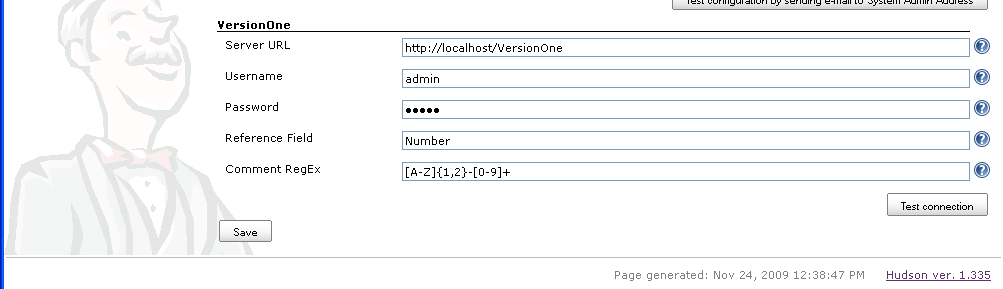
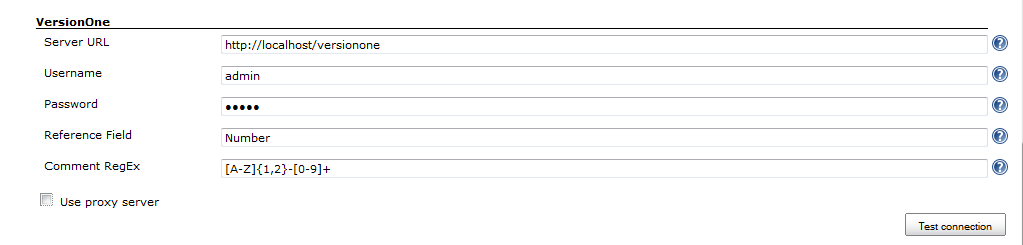
S-18083 Hudson Doc updates
git-svn-id: https://svn.corp.versionone.net/svn/1/Trunk/V1Integration/Java/Hudson@41367 542498e7-56f8-f544-a0f2-a85913ac812a

Changed region(s): [[0.0, 0.0, 1.0, 1.0], [0.6491, 0.0, 0.989, 0.0571]]

diff --git a/Doc/Hudson.html b/Doc/Hudson.html
@@ -1,7 +1,7 @@
 <!DOCTYPE HTML PUBLIC "-//W3C//DTD HTML 4.01 Transitional//EN" "http://www.w3.org/TR/html4/loose.dtd">
 <html>
     <head>
-        <title>Hudson</title>
+        <title>Hudson Plugin</title>
 	    <link rel="stylesheet" href="styles/site.css" type="text/css" />
         <META http-equiv="Content-Type" content="text/html; charset=UTF-8">	    
     </head>
@@ -13,36 +13,30 @@
 			    <td valign="top" class="pagebody">
 				    <div class="pageheader">
 					    <span class="pagetitle">
-                            Hudson
+                            Hudson Plugin
                                                     </span>
 				    </div>
 				    <div class="pagesubheading">
-					    This page last changed on Oct 08, 2010 by <font color="#0050B2">jerry</font>.
+					    This page last changed on May 26, 2011 by <font color="#0050B2">jerry</font>.
                                     </div>
 
 				    <div>
 <ul>
-    <li><a href='#Hudson-Description'>Description</a></li>
-    <li><a href='#Hudson-SystemRequirements'>System Requirements</a></li>
-    <li><a href='#Hudson-Downloads'>Downloads</a></li>
-    <li><a href='#Hudson-Installation'>Installation</a></li>
+    <li><a href='#HudsonPlugin-Description'>Description</a></li>
+    <li><a href='#HudsonPlugin-SystemRequirements'>System Requirements</a></li>
+    <li><a href='#HudsonPlugin-Downloads'>Downloads</a></li>
+    <li><a href='#HudsonPlugin-Installation'>Installation</a></li>
+    <li><a href='#HudsonPlugin-Configuration'>Configuration</a></li>
 <ul>
-    <li><a href='#Hudson-EnsureConnectivity'>Ensure Connectivity</a></li>
-    <li><a href='#Hudson-ExtractFiles'>Extract Files</a></li>
-    <li><a href='#Hudson-Configure'>Configure</a></li>
-    <li><a href='#Hudson-Verifytheinstallation'>Verify the installation</a></li>
+    <li><a href='#HudsonPlugin-ConfigureVersionOne'>Configure VersionOne </a></li>
+    <li><a href='#HudsonPlugin-ConfigureHudson'>Configure Hudson </a></li>
 </ul>
-    <li><a href='#Hudson-Configuration'>Configuration</a></li>
+    <li><a href='#HudsonPlugin-TechnicalDetails'>Technical Details</a></li>
 <ul>
-    <li><a href='#Hudson-ConfigureVersionOne'>Configure VersionOne </a></li>
-    <li><a href='#Hudson-ConfigureHudson'>Configure Hudson </a></li>
-</ul>
-    <li><a href='#Hudson-TechnicalDetails'>Technical Details</a></li>
-<ul>
-    <li><a href='#Hudson-AddingSupportforanothersourcecodemanagementsystem'>Adding Support for another source code management system</a></li>
+    <li><a href='#HudsonPlugin-AddingSupportforanothersourcecodemanagementsystem'>Adding Support for another source code management system</a></li>
 </ul>
 </ul></div>
-<h1><a name="Hudson-Description"></a>Description</h1>
+<h1><a name="HudsonPlugin-Description"></a>Description</h1>
 
 <p>The VersionOne Hudson integration creates a record of Hudson builds in VersionOne, so the development teams can associate stories and defects to a particular build. This visibility is useful when identifying problem builds or generating release notes.</p>
 
@@ -99,9 +93,13 @@
 <p>The following sequence diagram illustrates the VersionOne Hudson publisher behavior.<br/>
 <span class="image-wrap" style=""><a class="confluence-thumbnail-link 736x534" href='http://confluence/download/attachments/5111829/Hudson.png'><img src="attachments/thumbnails/5111829/8257547" border="0"/></a></span></p>
 
-<h1><a name="Hudson-SystemRequirements"></a>System Requirements</h1>
+<h1><a name="HudsonPlugin-SystemRequirements"></a>System Requirements</h1>
 
-<p>VersionOne: 8.1 or above</p>
+<p>VersionOne: </p>
+<ul>
+	<li>8.1 or above, including Team Edition</li>
+</ul>
+
 
 <p>Integration Server:</p>
 <ul>
@@ -122,26 +120,26 @@
 </ul>
 
 
-<h1><a name="Hudson-Downloads"></a>Downloads</h1>
+<h1><a name="HudsonPlugin-Downloads"></a>Downloads</h1>
 
 <p>The latest version of V1Publisher is available at <a href="http://community.versionone.com/sdk/Documentation/Integrations.aspx">V1: Integration Downloads</a></p>
 
-<h1><a name="Hudson-Installation"></a>Installation</h1>
+<h1><a name="HudsonPlugin-Installation"></a>Installation</h1>
 
 <p>These instructions presume that <a href="http://hudson-ci.org/">Hudson</a> is already installed, configured, and working properly.</p>
 <ol>
-	<li><h2><a name="Hudson-EnsureConnectivity"></a>Ensure Connectivity</h2>
-<p>Verify that you can connect to your VersionOne instance from the machine hosting Hudson</p></li>
-	<li><h2><a name="Hudson-ExtractFiles"></a>Extract Files</h2>
-<p>Download VersionOne plugin from the link above and extract it into a folder of your choice. This can be a temporary location since we will copy some of these files during Hudson configuration.</p></li>
-	<li><h2><a name="Hudson-Configure"></a>Configure</h2>
+	<li>Ensure Connectivity<br/>
+Verify that you can connect to your VersionOne instance from the machine hosting Hudson</li>
+	<li>Extract Files<br/>
+Download VersionOne plugin from the link above and extract it into a folder of your choice. This can be a temporary location since we will copy some of these files during Hudson configuration.</li>
+	<li>Configure
 	<ol>
-		<li><a href="#Hudson-ConfigureV1">Configure VersionOne</a></li>
-		<li><a href="#Hudson-ConfigureHudson">Configure Hudson</a></li>
+		<li><a href="#HudsonPlugin-ConfigureV1">Configure VersionOne</a></li>
+		<li><a href="#HudsonPlugin-ConfigureHudson">Configure Hudson</a></li>
 	</ol>
 	</li>
-	<li><h2><a name="Hudson-Verifytheinstallation"></a>Verify the installation</h2>
-<p>Once configuration is complete use the following steps to verify that the build integration is working</p>
+	<li>Verify the installation<br/>
+Once configuration is complete use the following steps to verify that the build integration is working
 	<ol>
 		<li>Navigate to your Hudson instance</li>
 		<li>Force a build on the project you configured</li>
@@ -156,17 +154,17 @@
 </ol>
 
 
-<h1><a name="Hudson-Configuration"></a>Configuration</h1>
+<h1><a name="HudsonPlugin-Configuration"></a>Configuration</h1>
 
-<h2><a name="Hudson-ConfigureVersionOne"></a>Configure VersionOne<a name="Hudson-ConfigureV1"></a> </h2>
-
+<h2><a name="HudsonPlugin-ConfigureVersionOne"></a>Configure VersionOne<a name="HudsonPlugin-ConfigureV1"></a> </h2>
+<div class='panelMacro'><table class='infoMacro'><colgroup><col width='24'><col></colgroup><tr><td valign='top'><img src="images/icons/emoticons/information.gif" width="16" height="16" align="absmiddle" alt="" border="0"></td><td>If you are using Team Edition, you need to manually create the Build Project.  Instructions for doing this are available on the <a href="http://community.versionone.com/KnowledgeBase/FAQs/Q11417.aspx">VersionOne Community Site</a>.</td></tr></table></div>
 <ol>
 	<li>Log into the VersionOne application as admin</li>
 	<li>Navigate to the Admin &#124; Configuration &#124; System page.</li>
 	<li>Check the “Enable Build Integration” checkbox and click the Apply button.<br/>
-<span class="image-wrap" style=""><img src="attachments/5111829/5308424.jpg" border="0"/></span></li>
+<span class="image-wrap" style=""><a class="confluence-thumbnail-link 1047x677" href='http://confluence/download/attachments/5111829/EnableBuildIntegration.jpg'><img src="attachments/thumbnails/5111829/5308424" border="0"/></a></span></li>
 	<li>Navigate to the Admin &#124; Projects &#124; Build Project page<br/>
-<span class="image-wrap" style=""><img src="attachments/5111829/5308423.jpg" border="0"/></span></li>
+<span class="image-wrap" style=""><a class="confluence-thumbnail-link 1680x674" href='http://confluence/download/attachments/5111829/BuildProjects.jpg'><img src="attachments/thumbnails/5111829/5308423" border="0"/></a></span></li>
 	<li>Click Add to add a new Build Project</li>
 	<li>Specify the following
 	<ul>
@@ -178,13 +176,13 @@
 	<li>Navigate to the Admin &#124; Projects &#124; Projects page</li>
 	<li>Click Edit on the row for the project you want associated with a Build Project</li>
 	<li>Using the “Build Projects” dropdown add the appropriate Build Project.<br/>
-<span class="image-wrap" style=""><img src="attachments/5111829/5308422.jpg" border="0"/></span></li>
+<span class="image-wrap" style=""><a class="confluence-thumbnail-link 904x692" href='http://confluence/download/attachments/5111829/AssignBuildProjectToProject.jpg'><img src="attachments/thumbnails/5111829/5308422" border="0"/></a></span></li>
 	<li>Click Ok to accept the changes</li>
 	<li>Logout</li>
 </ol>
 
 
-<h2><a name="Hudson-ConfigureHudson"></a>Configure Hudson<a name="Hudson-ConfigureHudson"></a></h2>
+<h2><a name="HudsonPlugin-ConfigureHudson"></a>Configure Hudson<a name="HudsonPlugin-ConfigureHudson"></a></h2>
 
 <p>These instructions presume that you are logged into Hudson as an administrator.</p>
 <ol>
@@ -192,29 +190,31 @@
 	<li>Click "Manage Plugins"</li>
 	<li>Click Advanced</li>
 	<li>Under "Upload Plugin" browse to your download location and select the file versionone.hpi<br/>
-<span class="image-wrap" style=""><img src="attachments/5111829/5308420.png" border="0"/></span></li>
+<span class="image-wrap" style=""><a class="confluence-thumbnail-link 1012x594" href='http://confluence/download/attachments/5111829/HudsonPluginManager.png'><img src="attachments/thumbnails/5111829/5308420" border="0"/></a></span></li>
 	<li>Click Upload</li>
 	<li>Restart your Hudson instance in order to load the new plugin</li>
 	<li>On the Hudson Dashboard, Click "Manage Hudson"</li>
 	<li>Click Configure System<br/>
 There is a new VersionOne section at the end of this page</li>
 	<li>Provide your VersionOne connection parameters<br/>
-<span class="image-wrap" style=""><img src="attachments/5111829/5308419.png" border="0"/></span><br/>
-It is recommended that you do not change the "Reference Field" or "Comment RegEx" fields.  The "Reference Field" is the system name of the attribute to search when matching the ID in change comments with workitems in VersionOne.  The "Comment RegEx" is used to extract workitem identifiers from the change comments.</li>
+<span class="image-wrap" style=""><a class="confluence-thumbnail-link 1023x245" href='http://confluence/download/attachments/5111829/ConfigureSystem.png'><img src="attachments/thumbnails/5111829/5308419" border="0"/></a></span><br/>
+If you connect to VersionOne through a proxy, check the "Use proxy server" checkbox and provide additional Proxy parameters<br/>
+<span class="image-wrap" style=""><a class="confluence-thumbnail-link 1028x354" href='http://confluence/download/attachments/5111829/ConfigureSystem-Proxy.png'><img src="attachments/thumbnails/5111829/11173914" border="0"/></a></span>
+<div class='panelMacro'><table class='infoMacro'><colgroup><col width='24'><col></colgroup><tr><td valign='top'><img src="images/icons/emoticons/information.gif" width="16" height="16" align="absmiddle" alt="" border="0"></td><td>It is recommended that you do not change the "Reference Field" or "Comment RegEx" fields.  The "Reference Field" is the system name of the attribute to search when matching the ID in change comments with workitems in VersionOne.  The "Comment RegEx" is used to extract workitem identifiers from the change comments.</td></tr></table></div></li>
 	<li>Test the connection</li>
 	<li>Save the settings</li>
 	<li>Choose the Job you wish to have published to VersionOne<br/>
 Remember that this job name must be configured in VersionOne</li>
 	<li>Click "Configure" to configure the workspace</li>
 	<li>In the "Post-build Actions" click the "VersionOne Notifier" checkbox<br/>
-<span class="image-wrap" style=""><img src="attachments/5111829/5308421.png" border="0"/></span></li>
+<span class="image-wrap" style=""><a class="confluence-thumbnail-link 1001x363" href='http://confluence/download/attachments/5111829/PostBuildActions.png'><img src="attachments/thumbnails/5111829/5308421" border="0"/></a></span></li>
 	<li>Click "Save"</li>
 </ol>
 
 
-<h1><a name="Hudson-TechnicalDetails"></a>Technical Details</h1>
+<h1><a name="HudsonPlugin-TechnicalDetails"></a>Technical Details</h1>
 
-<h2><a name="Hudson-AddingSupportforanothersourcecodemanagementsystem"></a>Adding Support for another source code management system</h2>
+<h2><a name="HudsonPlugin-AddingSupportforanothersourcecodemanagementsystem"></a>Adding Support for another source code management system</h2>
 <p>To add support for new VCS, the following actions are required.</p>
 <ol>
 	<li>Add plugin reference to pom.xml, make sure that this dependency could be successfully resolved.</li>
@@ -232,7 +232,7 @@ It is required to add line similar to classNameMappings.put("hudson.plugins.perf
 	    </table>
  	    <table border="0" cellpadding="0" cellspacing="0" width="100%" bgcolor="#ffffff">
 		    <tr>
-			    <td align="left"><font color="grey">Document generated on Oct 08, 2010 16:58</font></td>
+			    <td align="left"><font color="grey">Document generated on May 26, 2011 16:38</font></td>
 		    </tr>
 	    </table> 
     </body>
